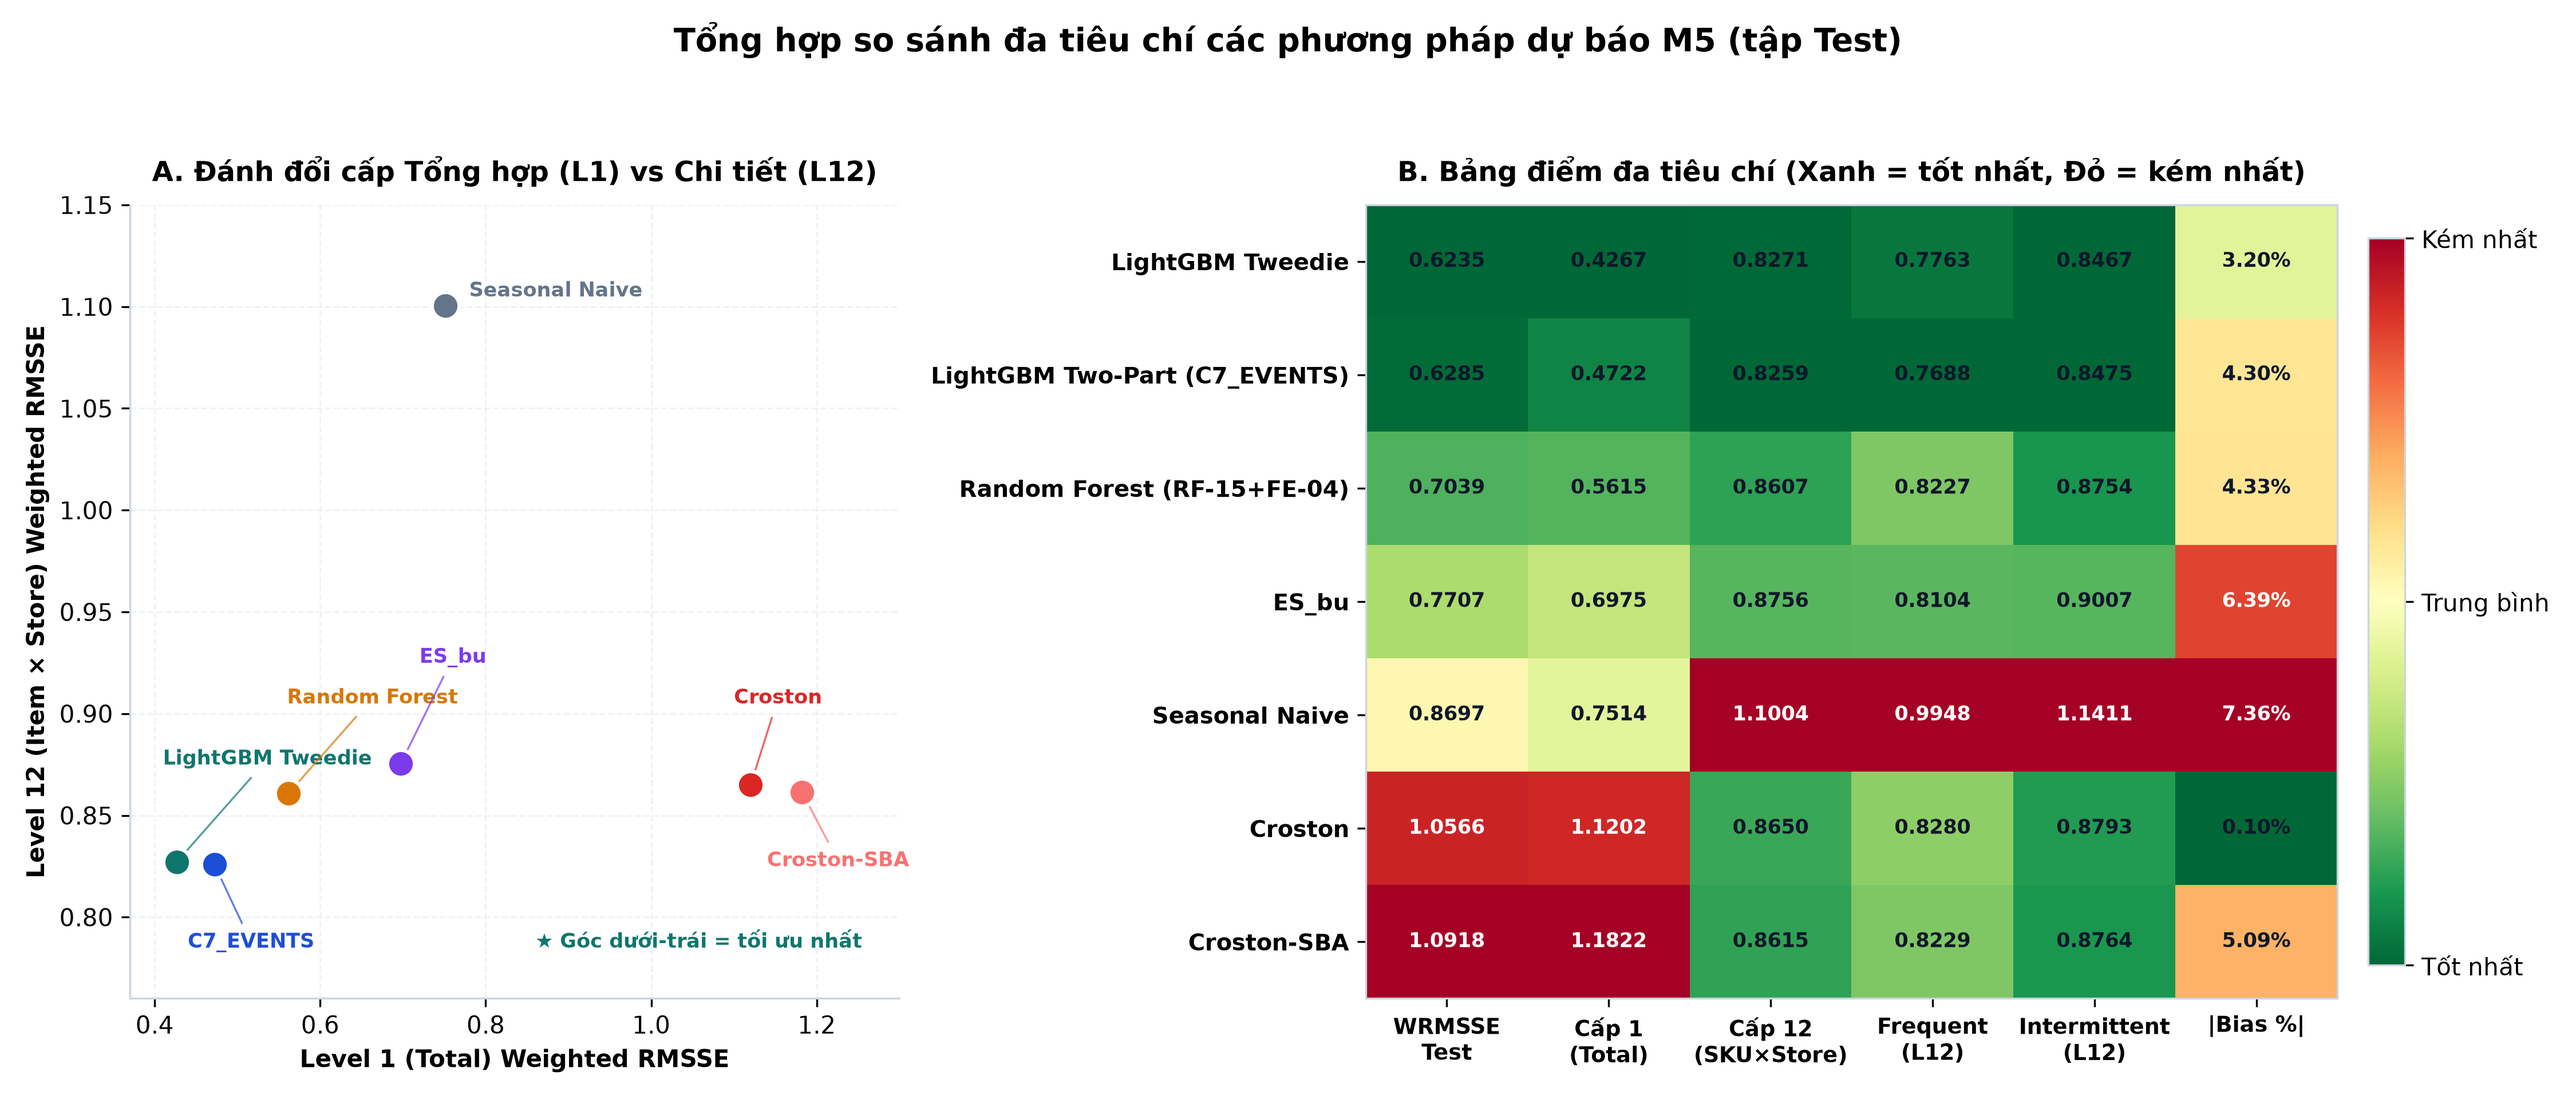
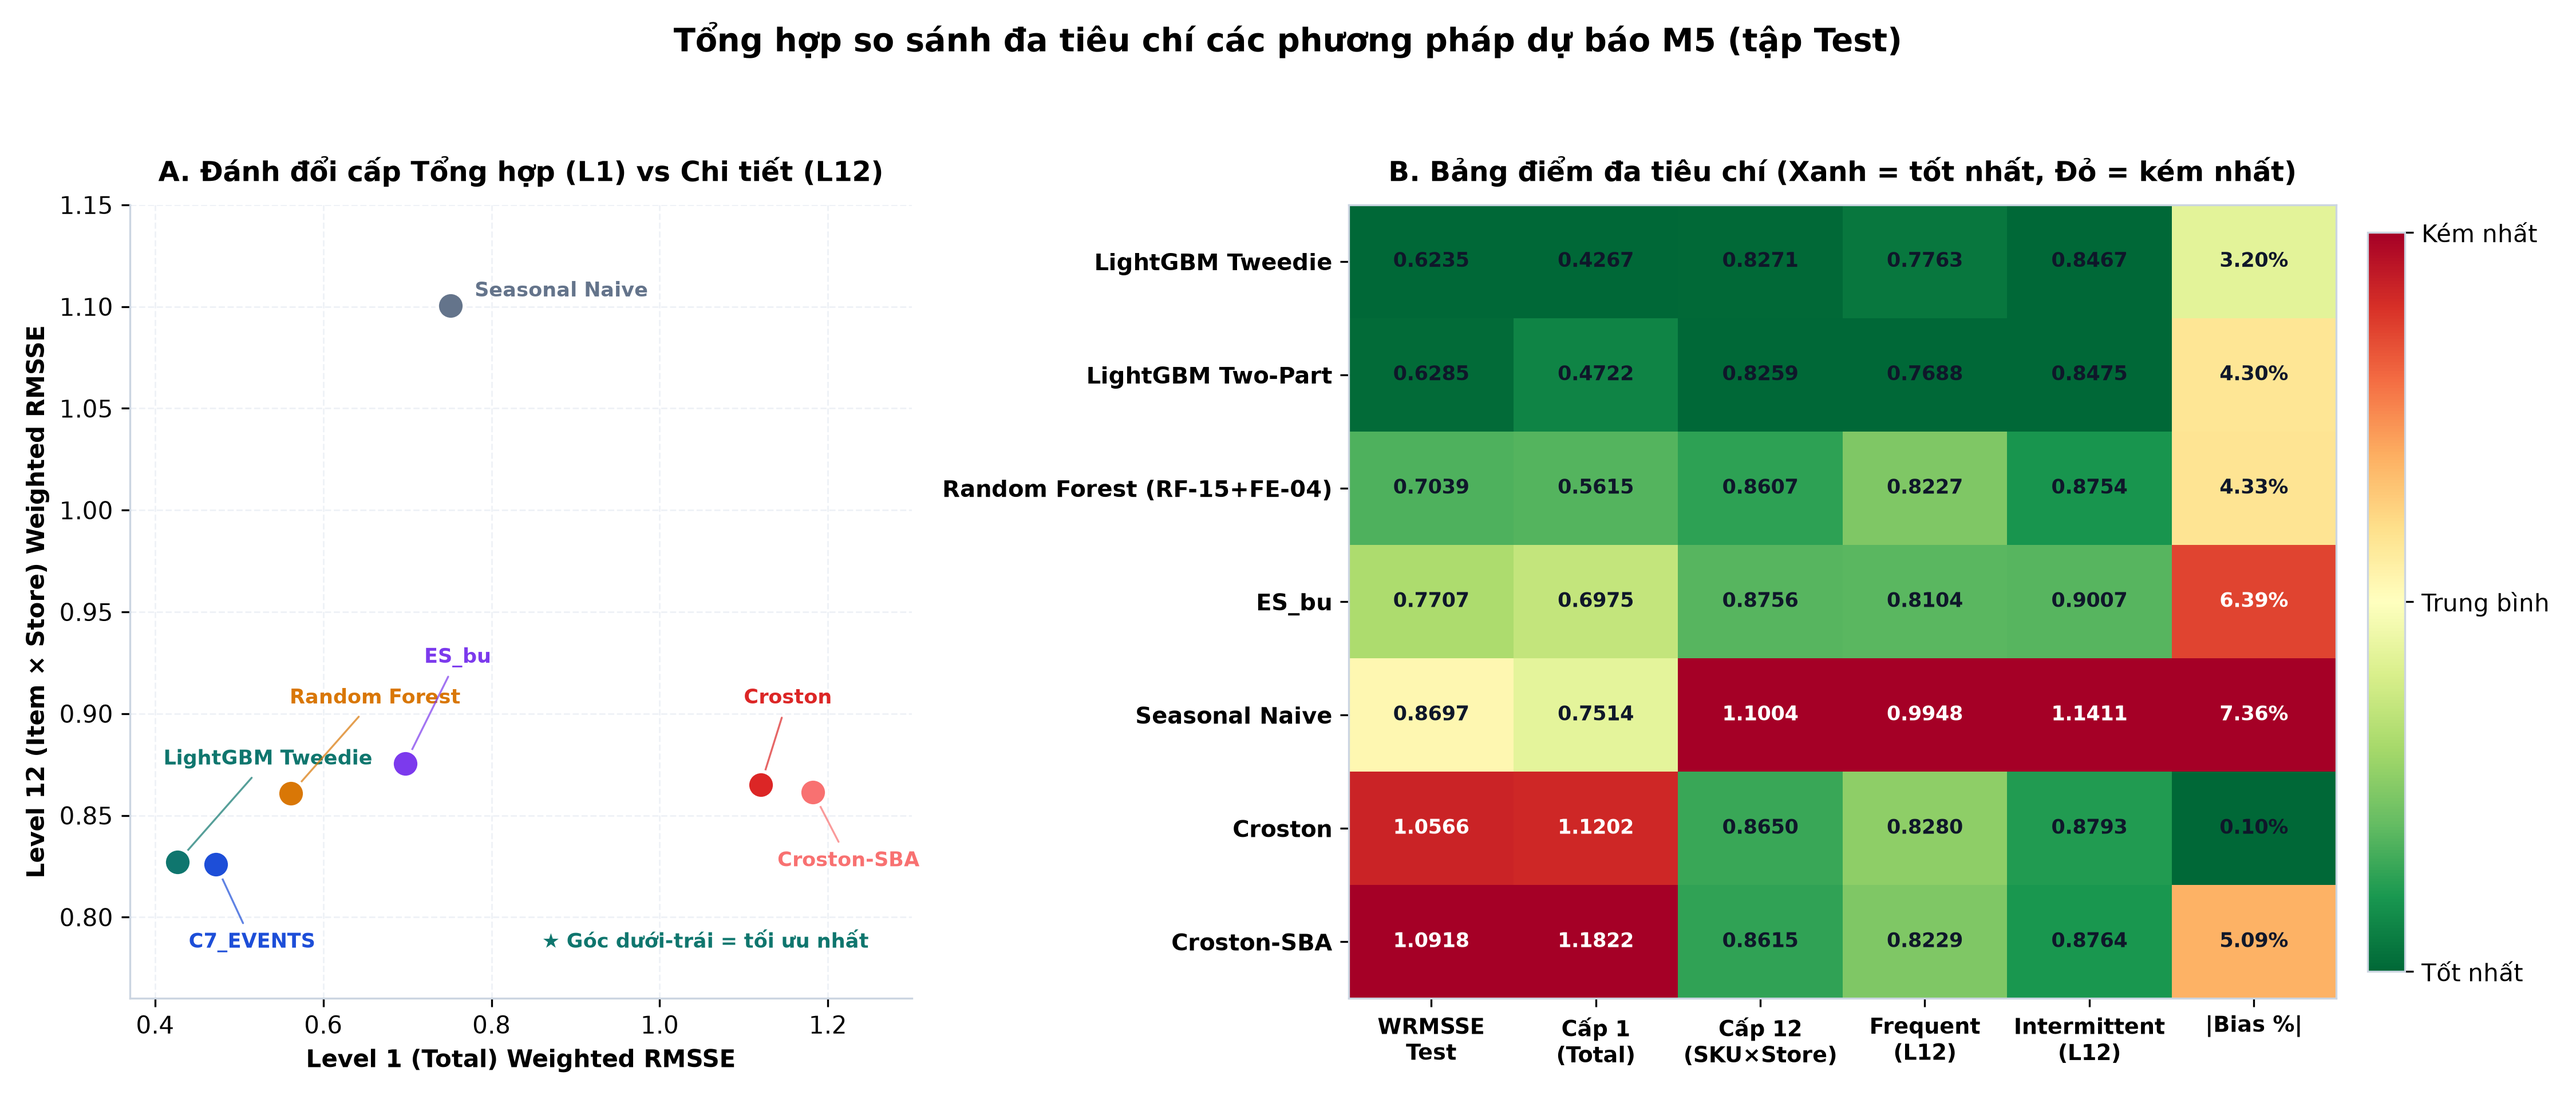
Rename LightGBM Two-Part (C7_EVENTS) label to LightGBM Two-Part in comparison

diff --git a/comparison/generate_comparison_charts.py b/comparison/generate_comparison_charts.py
@@ -28,7 +28,7 @@ plt.rcParams.update({
 
 MODEL_COLORS = {
     "LightGBM Tweedie": "#0F766E",
-    "LightGBM Two-Part (C7_EVENTS)": "#1D4ED8",
+    "LightGBM Two-Part": "#1D4ED8",
     "Random Forest (RF-15+FE-04)": "#D97706",
     "ES_bu": "#7C3AED",
     "Seasonal Naive": "#64748B",
@@ -144,7 +144,7 @@ def load_all_metrics():
             "bias_pct": tw_bias,
         },
         {
-            "model": "LightGBM Two-Part (C7_EVENTS)",
+            "model": "LightGBM Two-Part",
             "group": "ML",
             "wrmsse_val": float(c7e_val.WRMSSE),
             "val_note": "published",
@@ -251,7 +251,7 @@ def load_all_metrics():
     # 12-level table
     lvl_series = {
         "LightGBM Tweedie": tw_levels.set_index("level")["weighted_RMSSE"],
-        "LightGBM Two-Part (C7_EVENTS)": tp_levels.set_index("level")["weighted_RMSSE"],
+        "LightGBM Two-Part": tp_levels.set_index("level")["weighted_RMSSE"],
         "Random Forest (RF-15+FE-04)": rf_levels[rf_levels.model == "random_forest"].set_index("level")["wrmsse_within_level"],
         "ES_bu": bm_levels[(bm_levels.model == "ES_bu") & (bm_levels.split == "test")].set_index("level")["weighted_RMSSE"],
         "Seasonal Naive": rf_levels[rf_levels.model == "seasonal_naive"].set_index("level")["wrmsse_within_level"],
@@ -276,7 +276,7 @@ def load_all_metrics():
         "Random Forest (RF-15+FE-04)": rf_daily["random_forest_forecast"],
         "Seasonal Naive": rf_daily["seasonal_naive_forecast"],
     })
-    daily_df = daily_df.merge(tp_daily[["target_day", "predicted"]].rename(columns={"predicted": "LightGBM Two-Part (C7_EVENTS)"}), on="target_day")
+    daily_df = daily_df.merge(tp_daily[["target_day", "predicted"]].rename(columns={"predicted": "LightGBM Two-Part"}), on="target_day")
     for label, folder in local_map.items():
         ft = pd.read_csv(ROOT / ".local_evidence/wrmsse_6_models" / folder / "forecast_test.csv", usecols=["target_day", "y_pred"])
         d_sum = ft.groupby("target_day", as_index=False)["y_pred"].sum().rename(columns={"y_pred": label})
@@ -288,7 +288,7 @@ def load_all_metrics():
         store_rows.append({"store_id": r["store_id"], "model": "Random Forest (RF-15+FE-04)", "actual": r["actual_sales"], "forecast": r["random_forest_forecast"], "bias_pct": r["rf_bias_pct"]})
         store_rows.append({"store_id": r["store_id"], "model": "Seasonal Naive", "actual": r["actual_sales"], "forecast": r["seasonal_naive_forecast"], "bias_pct": r["sn_bias_pct"]})
     for _, r in tp_store.iterrows():
-        store_rows.append({"store_id": r["store_id"], "model": "LightGBM Two-Part (C7_EVENTS)", "actual": r["actual"], "forecast": r["predicted"], "bias_pct": r["bias_pct"]})
+        store_rows.append({"store_id": r["store_id"], "model": "LightGBM Two-Part", "actual": r["actual"], "forecast": r["predicted"], "bias_pct": r["bias_pct"]})
     for label, folder in local_map.items():
         rms = pd.read_csv(ROOT / ".local_evidence/wrmsse_6_models" / folder / "rmsse_theo_cap_san_pham.csv")
         st_agg = rms.groupby("store_id", as_index=False)[["actual_units", "predicted_units"]].sum()
@@ -307,7 +307,7 @@ def load_all_metrics():
     for _, r in tp_groups[tp_groups.dimension == "cat_id"].iterrows():
         cat_rows.append({
             "cat_id": r["group"],
-            "model": "LightGBM Two-Part (C7_EVENTS)",
+            "model": "LightGBM Two-Part",
             "weighted_RMSSE": r["revenue_weighted_RMSSE"],
             "bias_pct": r["bias_pct"],
         })
@@ -410,7 +410,7 @@ def plot_chart_2(levels_df: pd.DataFrame):
     x = np.arange(1, 13)
     markers = {
         "LightGBM Tweedie": "o",
-        "LightGBM Two-Part (C7_EVENTS)": "s",
+        "LightGBM Two-Part": "s",
         "Random Forest (RF-15+FE-04)": "^",
         "ES_bu": "D",
         "Seasonal Naive": "X",
@@ -426,7 +426,7 @@ def plot_chart_2(levels_df: pd.DataFrame):
 
     for col, dy1, dy12 in [
         ("LightGBM Tweedie", -0.015, 0.006),
-        ("LightGBM Two-Part (C7_EVENTS)", 0.012, -0.018),
+        ("LightGBM Two-Part", 0.012, -0.018),
         ("Random Forest (RF-15+FE-04)", 0.0, -0.003),
         ("ES_bu", 0.0, 0.032),
         ("Seasonal Naive", 0.0, 0.0),
@@ -473,7 +473,7 @@ def plot_chart_3(summary: pd.DataFrame):
         ax1.text(bar.get_x() + bar.get_width() / 2, val + 0.012, f"{val:.3f}",
                  ha="center", va="bottom", fontsize=8.5, fontweight="bold", color="#0F172A")
 
-    labels = [m.replace(" (", "\n(") + (" *" if "C7_EVENTS" in m else "") for m in df["model"]]
+    labels = [m.replace(" (", "\n(") + (" *" if "Two-Part" in m else "") for m in df["model"]]
     ax1.set_xticks(x)
     ax1.set_xticklabels(labels, fontsize=8.5, fontweight="bold", rotation=18, ha="right")
     ax1.set_ylim(0, 1.28)
@@ -506,7 +506,7 @@ def plot_chart_3(summary: pd.DataFrame):
 
     fig.suptitle("Phân tích hiệu năng theo nhóm nhu cầu trên tập Test (d_1914–d_1941)",
                  fontsize=13.5, fontweight="bold", y=0.98)
-    fig.text(0.01, 0.01, "* Ghi chú đối chiếu: 6 mô hình dùng phân nhóm origin 1913 (2.754 Frequent / 27.736 Intermittent); C7_EVENTS dùng bảng công bố trên phân nhóm origin 1885 (2.749 / 27.741).",
+    fig.text(0.01, 0.01, "* Ghi chú đối chiếu: 6 mô hình dùng phân nhóm origin 1913 (2.754 Frequent / 27.736 Intermittent); LightGBM Two-Part dùng bảng công bố trên phân nhóm origin 1885 (2.749 / 27.741).",
              fontsize=8.2, color="#475569", style="italic")
     fig.tight_layout(rect=[0, 0.035, 1, 0.94])
     fig.savefig(OUT_DIR / "03_hieu_qua_theo_nhom_nhu_cau.png", dpi=300)
@@ -572,7 +572,7 @@ def plot_chart_5(summary: pd.DataFrame):
 
     short_names = {
         "LightGBM Tweedie": "LightGBM Tweedie",
-        "LightGBM Two-Part (C7_EVENTS)": "C7_EVENTS",
+        "LightGBM Two-Part": "C7_EVENTS",
         "Random Forest (RF-15+FE-04)": "Random Forest",
         "ES_bu": "ES_bu",
         "Seasonal Naive": "Seasonal Naive",
@@ -581,7 +581,7 @@ def plot_chart_5(summary: pd.DataFrame):
     }
     label_xy = {
         "LightGBM Tweedie": (0.41, 0.875),
-        "LightGBM Two-Part (C7_EVENTS)": (0.44, 0.785),
+        "LightGBM Two-Part": (0.44, 0.785),
         "Random Forest (RF-15+FE-04)": (0.56, 0.905),
         "ES_bu": (0.72, 0.925),
         "Seasonal Naive": (0.78, 1.105),
@@ -657,7 +657,7 @@ def plot_chart_6(daily_df: pd.DataFrame):
 
     for col, ls in [
         ("LightGBM Tweedie", "-"),
-        ("LightGBM Two-Part (C7_EVENTS)", "-"),
+        ("LightGBM Two-Part", "-"),
         ("Random Forest (RF-15+FE-04)", "-"),
         ("ES_bu", "--"),
         ("Seasonal Naive", ":"),
@@ -687,7 +687,7 @@ def plot_chart_7(store_df: pd.DataFrame):
     stores = ["CA_1", "CA_2", "CA_3", "CA_4", "TX_1", "TX_2", "TX_3", "WI_1", "WI_2", "WI_3"]
     models = [
         "LightGBM Tweedie",
-        "LightGBM Two-Part (C7_EVENTS)",
+        "LightGBM Two-Part",
         "Random Forest (RF-15+FE-04)",
         "ES_bu",
         "Seasonal Naive",
@@ -740,7 +740,7 @@ def plot_chart_8(cat_df: pd.DataFrame):
     cats = ["FOODS", "HOBBIES", "HOUSEHOLD"]
     models = [
         "LightGBM Tweedie",
-        "LightGBM Two-Part (C7_EVENTS)",
+        "LightGBM Two-Part",
         "Random Forest (RF-15+FE-04)",
         "ES_bu",
         "Seasonal Naive",

diff --git a/comparison/verify_comparison_data.py b/comparison/verify_comparison_data.py
@@ -36,7 +36,7 @@ def test_summary_table_matches_published_sources():
     )
     # Exact published Test WRMSSE checks
     np.testing.assert_allclose(s.loc["LightGBM Tweedie", "wrmsse_test"], 0.6234560168189278, atol=1e-12)
-    np.testing.assert_allclose(s.loc["LightGBM Two-Part (C7_EVENTS)", "wrmsse_test"], 0.6284865669601195, atol=1e-12)
+    np.testing.assert_allclose(s.loc["LightGBM Two-Part", "wrmsse_test"], 0.6284865669601195, atol=1e-12)
     np.testing.assert_allclose(s.loc["Random Forest (RF-15+FE-04)", "wrmsse_test"], 0.7039124143420078, atol=1e-12)
     np.testing.assert_allclose(s.loc["ES_bu", "wrmsse_test"], 0.770677, atol=1e-6)
     np.testing.assert_allclose(s.loc["Seasonal Naive", "wrmsse_test"], 0.8697007023310609, atol=1e-6)
@@ -51,7 +51,7 @@ def test_daily_and_store_totals_reconcile_to_summary():
     assert daily["actual"].sum() == 1_231_764
     for m in [
         "LightGBM Tweedie",
-        "LightGBM Two-Part (C7_EVENTS)",
+        "LightGBM Two-Part",
         "Random Forest (RF-15+FE-04)",
         "ES_bu",
         "Seasonal Naive",
@@ -68,7 +68,7 @@ def test_category_metrics_match_c7_events_and_tweedie():
     cat = pd.read_csv(COMP / "category_all_models.csv")
     c7e = pd.read_csv(ROOT / "pipelines/lightgbm_twopart/reports/c7_events/test_group_scores.csv")
     c7e_cat = c7e[c7e.dimension == "cat_id"].set_index("group")
-    sub = cat[cat.model == "LightGBM Two-Part (C7_EVENTS)"].set_index("cat_id")
+    sub = cat[cat.model == "LightGBM Two-Part"].set_index("cat_id")
     for c in ["FOODS", "HOBBIES", "HOUSEHOLD"]:
         np.testing.assert_allclose(sub.loc[c, "weighted_RMSSE"], c7e_cat.loc[c, "revenue_weighted_RMSSE"], atol=1e-12)
         np.testing.assert_allclose(sub.loc[c, "bias_pct"], c7e_cat.loc[c, "bias_pct"], atol=1e-12)
